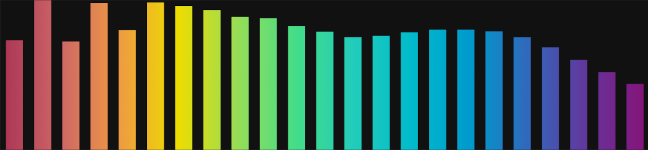
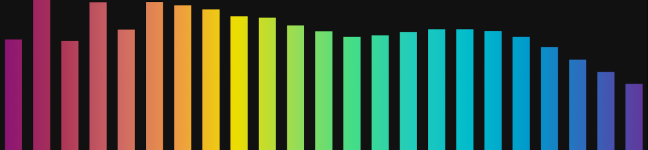
Minor adjustment to rainbow gradient.

diff --git a/src/audioMotion-analyzer.js b/src/audioMotion-analyzer.js
@@ -59,7 +59,7 @@ const PRISM = [ '#a35', '#c66', '#e94', '#ed0', '#9d5', '#4d8', '#2cb', '#0bc', 
 	  }],
 	  [ 'rainbow', {
 			dir: 'h',
-			colorStops: [ ...PRISM, '#639', '#817' ]
+			colorStops: [ '#817', ...PRISM, '#639' ]
 	  }],
 	  [ 'orangered', {
 	  		bgColor: '#3e2f29',
